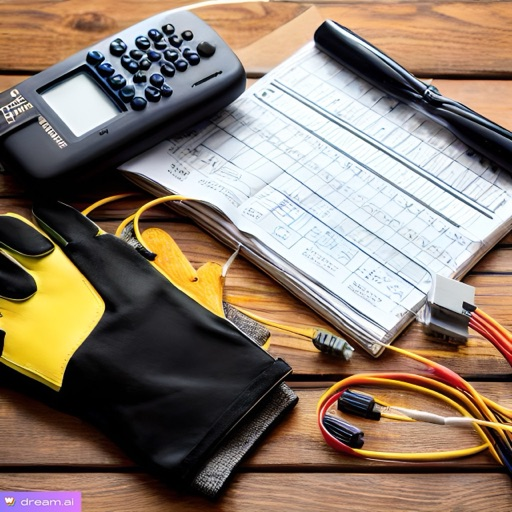
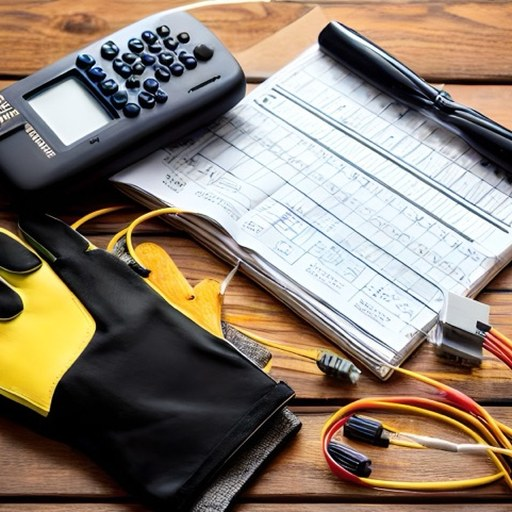
chore(release): prepare Google Play release (#16)
* chore(release): prepare Google Play release

- Adaptive launcher icon (white bolt on brand orange, themed-icon ready) and fallback PNGs;
  Play icon, feature graphic and 5 screenshots in docs/play (scripts/gerar-icones.py)
- App name "Solução Elétrica"; INTERNET permission only in debug builds (app is offline)
- Release signing from gitignored android/keystore.properties (debug-signed fallback, which
  Play rejects); VERSION_CODE env for CI; npm run android:bundle builds the .aab
- Crop the dream.ai watermark from the bundled pictures
- docs/play: release guide, pt-BR listing, privacy policy, app-content answers

* docs(play): add contact email to privacy policy

---------

diff --git a/scripts/gerar-icones.py b/scripts/gerar-icones.py
@@ -1,0 +1,77 @@
+"""Generates the launcher PNGs (Android 7.x fallback), the Play Store icon and the feature graphic.
+
+The adaptive icon itself (Android 8+) is vector: res/drawable/ic_launcher_foreground.xml.
+Requires Pillow: python3 -m pip install pillow, then: python3 scripts/gerar-icones.py
+"""
+
+from pathlib import Path
+
+from PIL import Image, ImageDraw, ImageFont
+
+RAIZ = Path(__file__).resolve().parent.parent
+RES = RAIZ / "android/app/src/main/res"
+PLAY = RAIZ / "docs/play"
+
+LARANJA = "#D25719"
+CREME = "#F3CCB8"
+BRANCO = "#FFFFFF"
+
+# Same bolt as ic_launcher_foreground.xml, on the 108-unit adaptive-icon grid.
+RAIO = [(60, 22), (36, 60), (52, 60), (46, 86), (74, 46), (57, 46), (64, 22)]
+SUPERSAMPLE = 4
+
+
+def raio(tamanho: int, escala: float, centro: tuple[float, float]) -> list[tuple[float, float]]:
+    """Bolt points scaled so the 108-grid maps to `tamanho * escala` pixels around `centro`."""
+    fator = tamanho * escala / 108
+    cx, cy = centro
+    return [(cx + (x - 54) * fator, cy + (y - 54) * fator) for x, y in RAIO]
+
+
+def icone(tamanho: int, redondo: bool, cantos: bool = True) -> Image.Image:
+    s = tamanho * SUPERSAMPLE
+    img = Image.new("RGBA", (s, s), (0, 0, 0, 0))
+    d = ImageDraw.Draw(img)
+    if redondo:
+        d.ellipse((0, 0, s - 1, s - 1), fill=LARANJA)
+    elif cantos:
+        d.rounded_rectangle((0, 0, s - 1, s - 1), radius=s * 0.18, fill=LARANJA)
+    else:
+        d.rectangle((0, 0, s, s), fill=LARANJA)
+    d.polygon(raio(s, 1.0, (s / 2, s / 2)), fill=BRANCO)
+    return img.resize((tamanho, tamanho), Image.LANCZOS)
+
+
+def launcher_pngs() -> None:
+    for pasta, tamanho in {"mdpi": 48, "hdpi": 72, "xhdpi": 96, "xxhdpi": 144, "xxxhdpi": 192}.items():
+        destino = RES / f"mipmap-{pasta}"
+        icone(tamanho, redondo=False).save(destino / "ic_launcher.png")
+        icone(tamanho, redondo=True).save(destino / "ic_launcher_round.png")
+
+
+def play_icon() -> None:
+    # Play applies its own mask: full square, no transparency.
+    icone(512, redondo=False, cantos=False).convert("RGB").save(PLAY / "icone-512.png")
+
+
+def feature_graphic() -> None:
+    largura, altura = 1024, 500
+    img = Image.new("RGB", (largura, altura), LARANJA)
+    d = ImageDraw.Draw(img)
+    d.ellipse((60, 90, 380, 410), fill=CREME)
+    d.polygon(raio(320, 1.05, (220, 250)), fill=LARANJA)
+    titulo = ImageFont.truetype("/System/Library/Fonts/Supplemental/Arial Bold.ttf", 72)
+    texto = ImageFont.truetype("/System/Library/Fonts/Supplemental/Arial.ttf", 30)
+    d.text((430, 160), "Solução Elétrica", font=titulo, fill=BRANCO)
+    for i, linha in enumerate(
+        ["Dimensionamento de cabos, disjuntores", "e eletrodutos segundo a NBR 5410", "Funciona sem internet"]
+    ):
+        d.text((432, 262 + i * 42), linha, font=texto, fill=BRANCO)
+    img.save(PLAY / "feature-graphic-1024x500.png")
+
+
+if __name__ == "__main__":
+    launcher_pngs()
+    play_icon()
+    feature_graphic()
+    print("ok")

diff --git a/docs/play/README.md b/docs/play/README.md
@@ -1,0 +1,64 @@
+# Publicação no Google Play
+
+Tudo o que a ficha da loja precisa está nesta pasta. Passos na ordem:
+
+## 1. Chave de upload (uma vez só)
+
+Na pasta `android/`, gere a chave e guarde o arquivo e as senhas em local seguro (gerenciador de
+senhas + backup). Sem ela não é possível publicar atualizações.
+
+```sh
+cd android
+keytool -genkeypair -v -storetype PKCS12 -keystore upload-keystore.jks \
+  -alias upload -keyalg RSA -keysize 2048 -validity 10000
+```
+
+Crie `android/keystore.properties` (já está no `.gitignore`):
+
+```properties
+storeFile=../upload-keystore.jks
+storePassword=SUA_SENHA
+keyAlias=upload
+keyPassword=SUA_SENHA
+```
+
+`storeFile` é relativo a `android/app/`.
+
+## 2. Gerar o pacote
+
+```sh
+npm run android:bundle
+```
+
+Saída: `android/app/build/outputs/bundle/release/app-release.aab`. Sem `keystore.properties` o
+pacote sai assinado com a chave de debug e o Play o recusa (proteção contra envio acidental).
+
+## 3. Play Console
+
+1. **Ficha principal da loja:** textos de `ficha-da-loja.md`, ícone, gráfico e capturas desta pasta.
+2. **Conteúdo do app:** respostas abaixo.
+3. **Testes > Teste fechado:** crie a faixa, adicione os 12+ testadores (lista de e-mails),
+   envie o `.aab` e compartilhe o link de participação. Os testadores precisam ficar inscritos
+   por **14 dias seguidos** antes de liberar a produção (contas pessoais novas).
+4. Depois dos 14 dias: **Solicitar acesso à produção**, responder o questionário e publicar.
+
+## Respostas para "Conteúdo do app"
+
+| Formulário                                | Resposta                                                                                                                                               |
+| ----------------------------------------- | ------------------------------------------------------------------------------------------------------------------------------------------------------ |
+| Política de privacidade                   | `https://github.com/LarissaGB01/solucao-eletrica-app/blob/main/docs/play/politica-de-privacidade.md`                                                   |
+| Anúncios                                  | Não contém anúncios                                                                                                                                    |
+| Acesso ao app                             | Todas as funcionalidades sem restrição (sem login)                                                                                                     |
+| Classificação de conteúdo                 | Categoria "Utilitário/Produtividade/Educação"; responder "Não" a violência, sexo, linguagem, drogas, jogos de azar, interação entre usuários e compras |
+| Público-alvo                              | 18 anos ou mais (não direcionado a crianças)                                                                                                           |
+| Segurança dos dados                       | Não coleta nem compartilha dados; sem criptografia em trânsito porque não há tráfego de rede                                                           |
+| Apps governamentais / financeiros / saúde | Não                                                                                                                                                    |
+
+## Atualizações
+
+Aumente `versionName` em `android/app/build.gradle` e gere com `VERSION_CODE=<número maior> npm run android:bundle`
+(o Play exige `versionCode` crescente). A Fase 7 do `PLAN.md` automatiza isso no CI.
+
+## Imagens
+
+Regenerar ícones e gráfico: `python3 scripts/gerar-icones.py` (requer Pillow).

diff --git a/docs/play/ficha-da-loja.md b/docs/play/ficha-da-loja.md
@@ -1,0 +1,45 @@
+# Ficha da loja (Google Play, pt-BR)
+
+## Nome do app (até 30 caracteres)
+
+Solução Elétrica
+
+## Descrição curta (até 80 caracteres)
+
+Dimensione cabos, disjuntores e eletrodutos pela NBR 5410, sem internet.
+
+## Descrição completa (até 4000 caracteres)
+
+O Solução Elétrica ajuda estudantes e profissionais a dimensionar circuitos de baixa tensão
+segundo a norma brasileira NBR 5410, direto no celular e sem precisar de internet.
+
+O QUE O APP FAZ
+• Dimensionamento de cabeamento: informe finalidade, tensão, potência, método de instalação,
+tipo de cabo, temperatura, circuitos agrupados e comprimento, e receba a seção do condutor,
+o disjuntor e o eletroduto recomendados.
+• Dimensionamento de disjuntores: a partir da corrente de projeto e da capacidade do condutor.
+• Dimensionamento de eletrodutos: a partir da seção e da quantidade de condutores.
+• Passo a passo: cada resultado mostra as fórmulas, os valores usados e as tabelas consultadas,
+para conferir e aprender o cálculo.
+• Base teórica: todas as fórmulas e tabelas (NBR 5410, catálogos Siemens e Kanaflex) em um só lugar.
+
+FEITO PARA O DIA A DIA
+• Formulários já preenchidos com os valores mais comuns no Brasil (127/220 V, fator de
+potência 0,92, cabo de 2,5 mm²).
+• Funciona totalmente offline.
+• Sem cadastro, sem anúncios e sem coleta de dados.
+
+SOBRE
+Aplicativo desenvolvido como Trabalho de Conclusão de Curso de Engenharia Elétrica no UniCEUB.
+Os resultados são uma referência de estudo e não substituem o projeto elaborado por um
+profissional habilitado.
+
+## Categoria
+
+Educação (alternativa: Ferramentas)
+
+## Imagens
+
+- Ícone: `icone-512.png`
+- Gráfico de recursos: `feature-graphic-1024x500.png`
+- Capturas de tela do telefone: pasta `screenshots/` (1200×2400)

diff --git a/docs/play/politica-de-privacidade.md b/docs/play/politica-de-privacidade.md
@@ -1,0 +1,33 @@
+# Política de Privacidade — Solução Elétrica
+
+_Última atualização: 11 de outubro de 2026_
+
+O aplicativo **Solução Elétrica** (`com.larissagb.solucaoeletrica`) foi desenvolvido por
+Larissa Galvão Barcelos como Trabalho de Conclusão de Curso de Engenharia Elétrica (UniCEUB).
+
+## Dados coletados
+
+**Nenhum.** O aplicativo:
+
+- não pede cadastro, login nem qualquer dado pessoal;
+- não coleta, armazena nem compartilha dados de uso, localização, contatos ou identificadores;
+- não tem anúncios nem ferramentas de análise ou rastreamento;
+- não usa a internet: todos os cálculos são feitos no próprio aparelho.
+
+Os valores digitados nos formulários servem apenas para o cálculo na tela e não são guardados
+depois que o aplicativo é fechado.
+
+## Links externos
+
+A tela "Base Teórica" tem links para documentos de referência (NBR 5410, catálogos Siemens e
+Kanaflex). Ao tocar em um deles, o documento abre no navegador do aparelho, sujeito à política
+de privacidade do respectivo site.
+
+## Crianças
+
+O aplicativo é destinado a estudantes e profissionais de engenharia elétrica e não coleta dados
+de ninguém, inclusive de crianças.
+
+## Contato
+
+Dúvidas sobre esta política: **larissabarcelos.dev@gmail.com**.

diff --git a/PLAN.md b/PLAN.md
@@ -102,7 +102,7 @@ Shared pieces: `combinarCampos` (domain), `calcular` (application), `features/fo
 
 - [ ] Maestro E2E: 3 happy paths + 1 validation-error flow, run in CI on an Android emulator
 - [ ] Accessibility labels on all inputs/buttons; text scales to 200% without clipping
-- [ ] App icon + splash (`react-native-bootsplash`) from the old assets
+- [x] App icon (adaptive, bolt on brand orange); splash still pending (`react-native-bootsplash`)
 - [ ] Crash reporting (Sentry) with source maps uploaded from CI
 
 **Acceptance criteria**
@@ -114,7 +114,7 @@ Shared pieces: `combinarCampos` (domain), `calcular` (application), `features/fo
 
 - [ ] Release keystore, Play App Signing, secrets in GitHub Actions
 - [ ] Fastlane `supply`; CI builds a signed AAB on tag `v*`; `versionCode` = CI run number
-- [ ] Play listing (pt-BR), privacy policy, data safety form
+- [x] Play listing (pt-BR), privacy policy, data safety answers (`docs/play/`)
 - [ ] Internal track → closed test (12 testers, 14 days) → production
 
 **Acceptance criteria**

diff --git a/CLAUDE.md b/CLAUDE.md
@@ -20,6 +20,7 @@ See `ARCHITECTURE.md` for layers and data flow, `PLAN.md` for the roadmap and cu
 npm ci                  # install (Node 22, see .nvmrc); postinstall generates KaTeX assets
 npm start               # Metro bundler
 npm run android         # build + run on emulator/device (needs JDK 17 + Android SDK)
+npm run android:bundle  # signed Play bundle (.aab); see docs/play/README.md
 adb reverse tcp:8081 tcp:8081  # if the app can't reach Metro (Android 17 blocks local network in debug)
 npm test                # Jest
 npm run test:watch      # Jest watch mode
